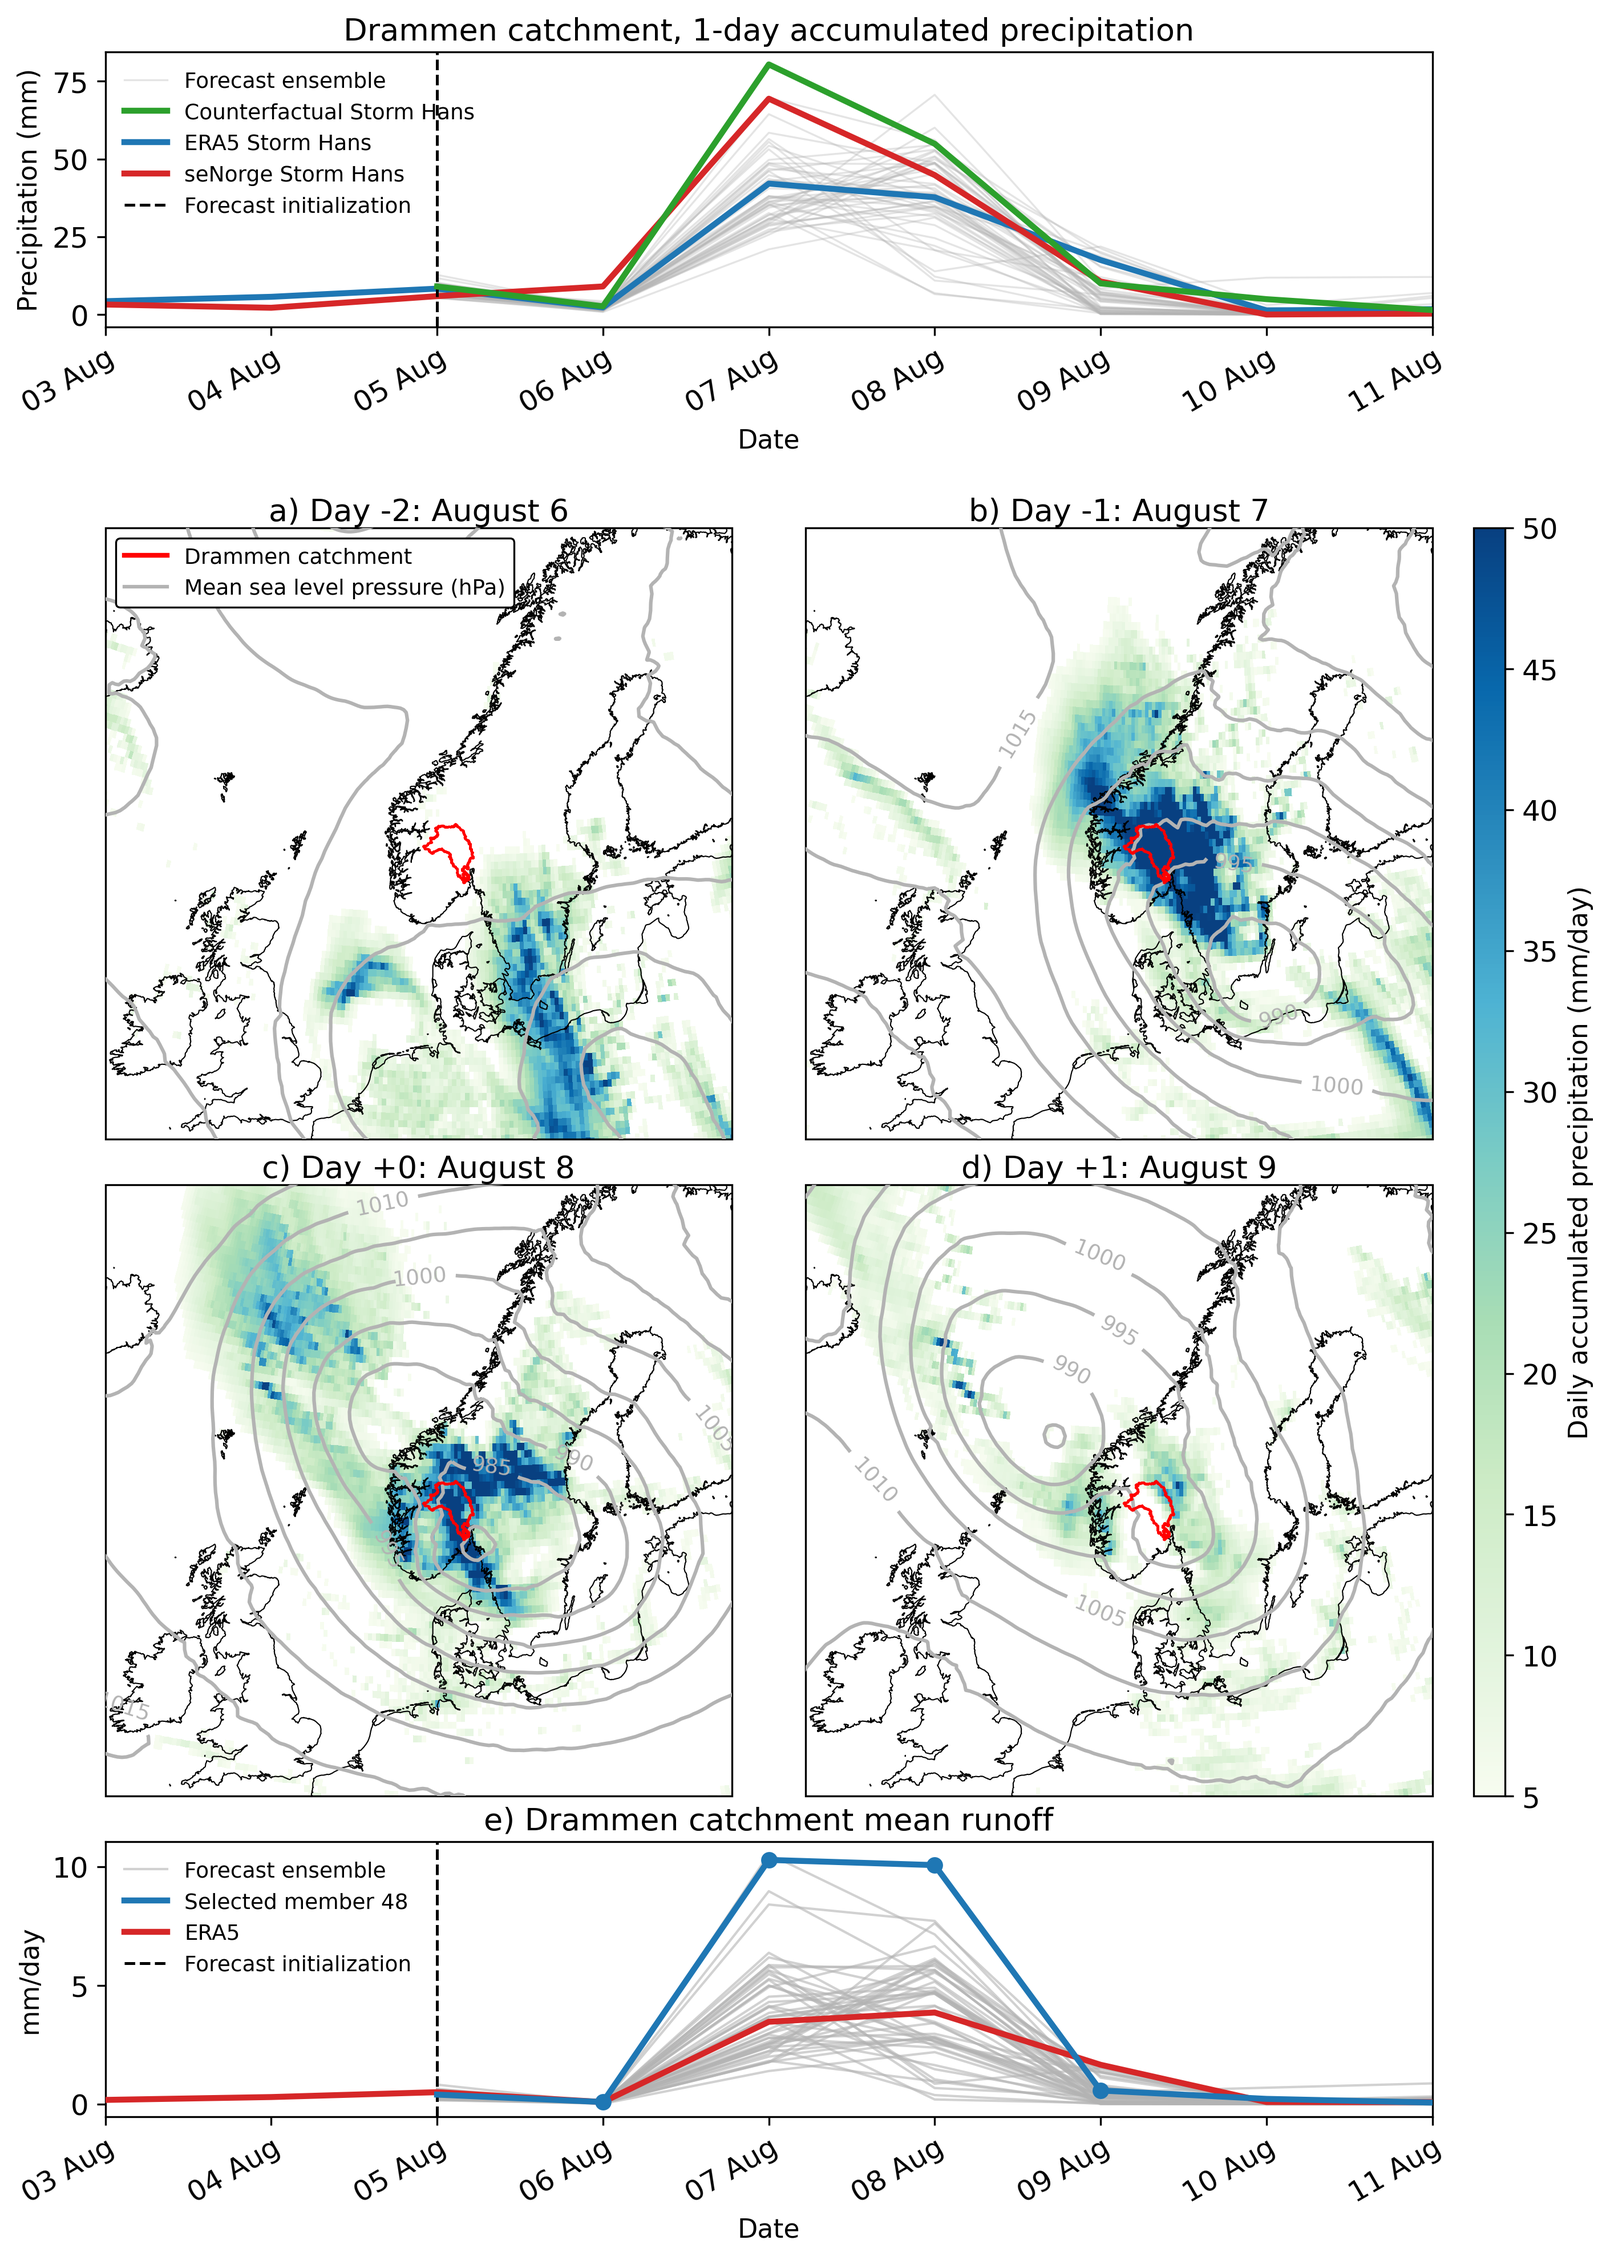
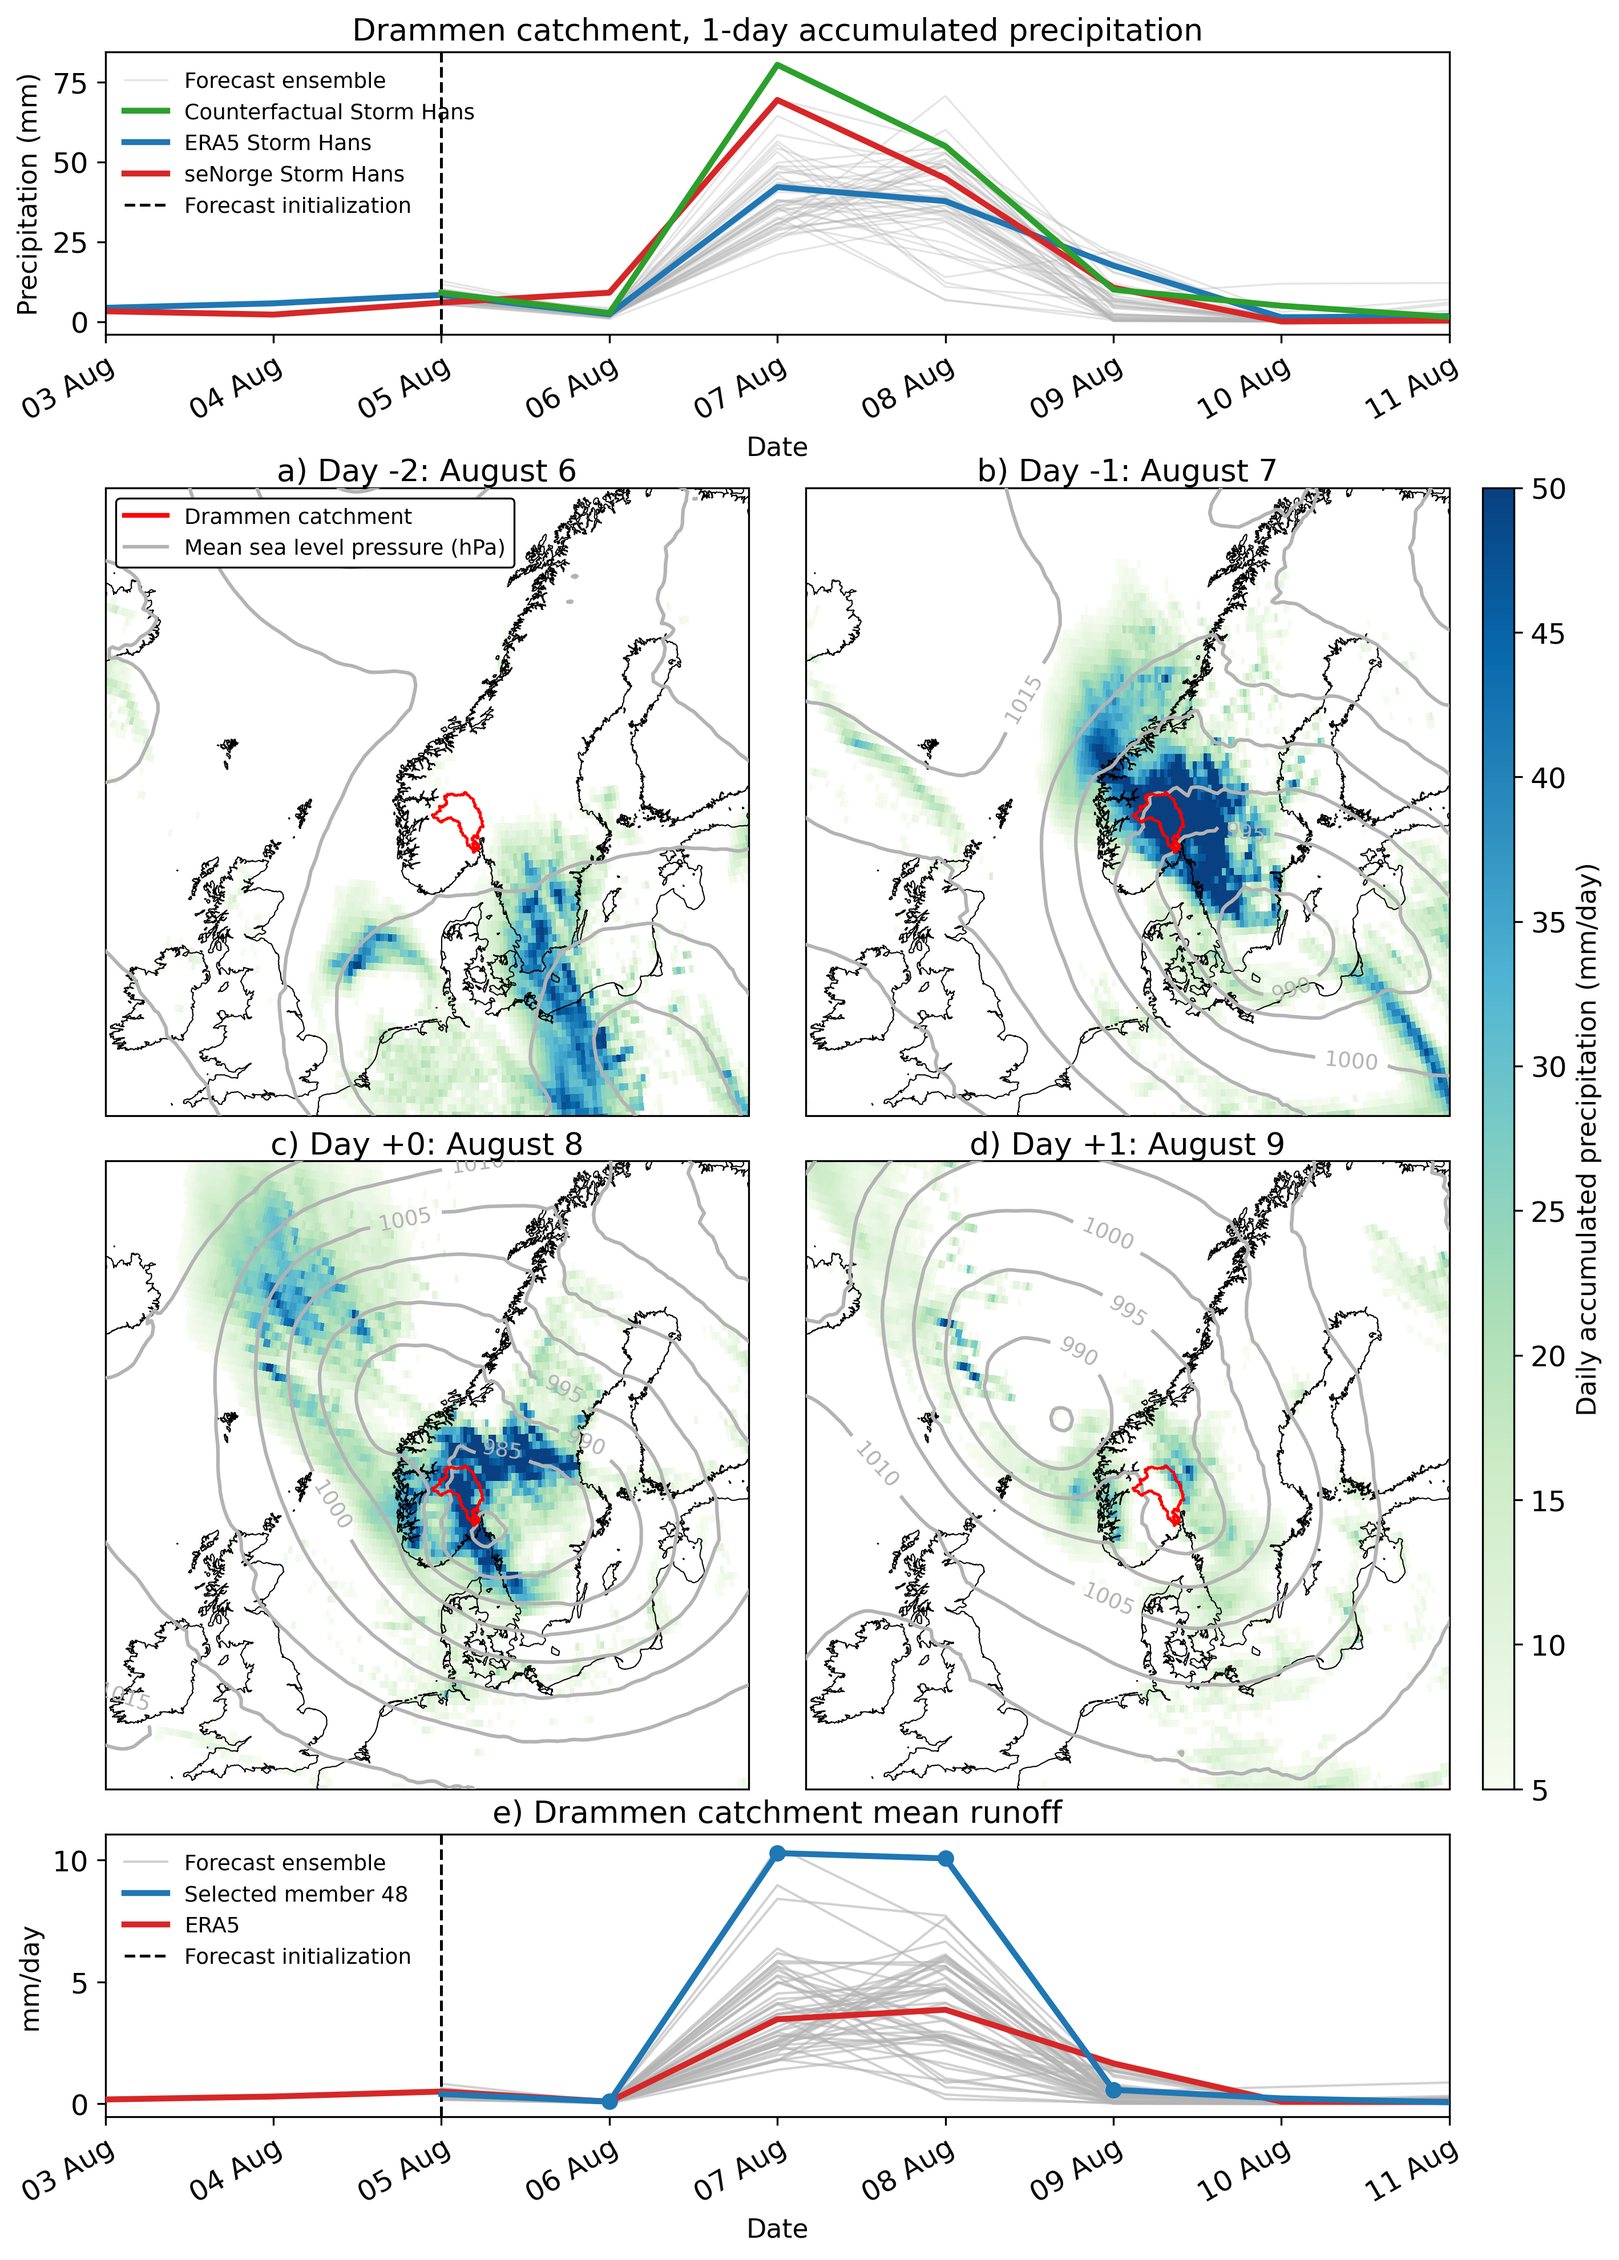
update

diff --git a/code/plot/paper_figs/temp2.py b/code/plot/paper_figs/temp2.py
@@ -165,7 +165,7 @@ MAP_HSPACE = 0.12
 
 # This controls only the extra empty space between the top panel and panels a/b.
 # Increase to 0.25 if more space is needed. Decrease to 0.10 if too much.
-TOP_TO_MAP_SPACER_HEIGHT = 0.18
+TOP_TO_MAP_SPACER_HEIGHT = 0.10
 
 CENTRAL_LON = 10.0
 CENTRAL_LAT = 62.0
